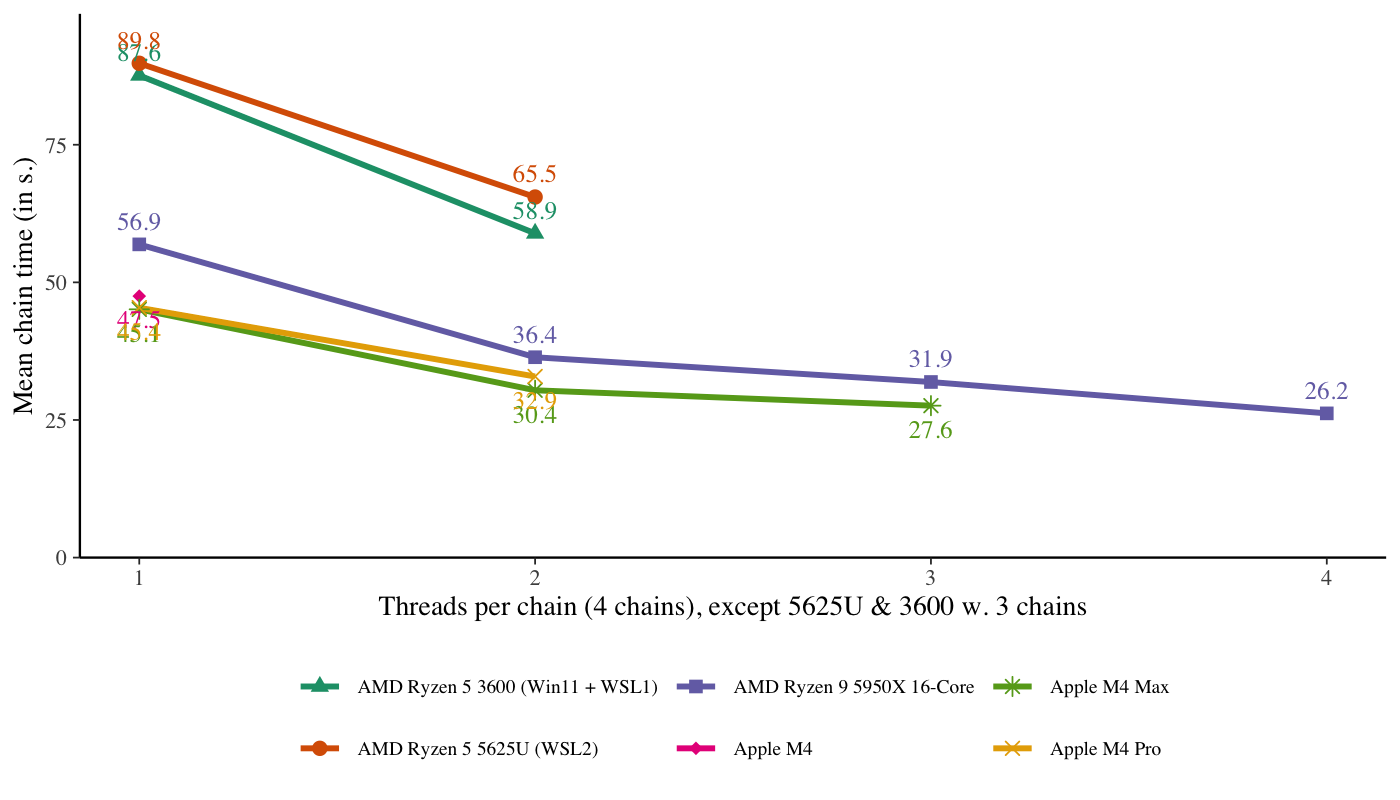
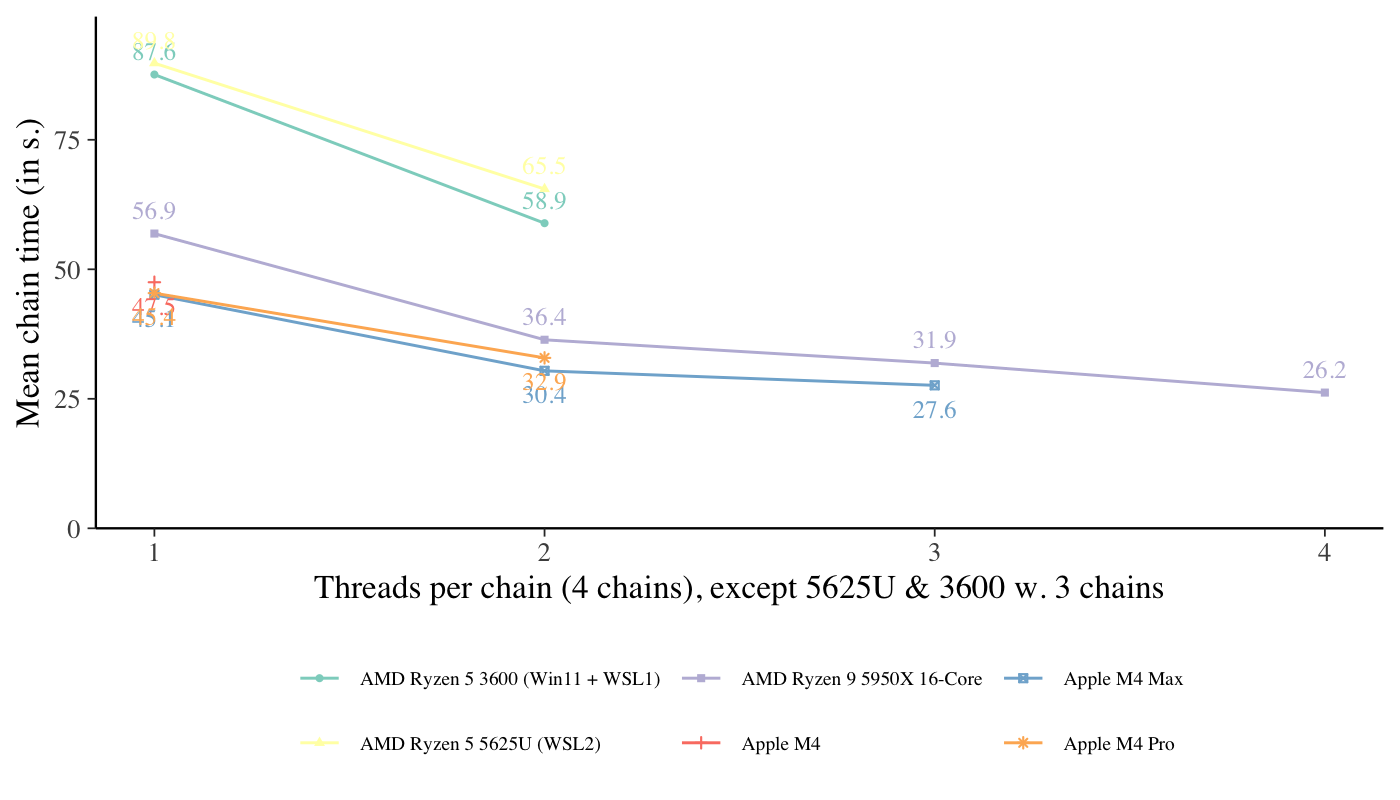
Small edits to the RMD

diff --git a/README.md b/README.md
@@ -4,16 +4,16 @@
 # `brms` CPU benchmark
 
 This repo contains a small, reproducible benchmark for how fast a modern
-computer samples a typical psychology model with **brms / CmdStan**,
-with wall time as a user experiences it, with and without within-chain
-threading, though the times obtained with threading are of interest.
+computer samples a typical model with **brms / CmdStan**, with wall time
+as a user experiences it, with and without within-chain threading,
+though the times obtained with threading are of interest.
 
 I do not recommend running it under “pure” Windows. For example, in this
-dataset, the 5625U from AMD reported timings of 286s for 4 chains X 1
-thread and the same laptop under WSL2 and under the same settings,
+dataset, the 5625U from AMD reported timings of 286s for 4 chains and 1
+thread. The same laptop under WSL2 and with the same settings registered
 89.8s. So the biggest available free lunch for a Windows user in terms
-of speeding up is using the WSL. I have observed this a lot and there
-are enough [threads on the
+of speeding up is using the WSL 1 or 2. I have observed this quite a lot
+and there are enough [threads on the
 interwebs](https://discourse.mc-stan.org/t/large-cmdstan-performance-differences-windows-vs-linux/14415/30)
 with concurring evidence. I am not sure if the reason for this issue was
 ever clarified but alas, here we are.
@@ -21,28 +21,31 @@ ever clarified but alas, here we are.
 ## How to run it
 
 Copy/paste into the console, but beware of your own specs before setting
-the treads argument.
+the treads argument. This is because some CPUs have a non bayesian
+friendly configuration in terms of cores. As running 4 chains is
+considered the norm, a 6 or 12 core CPU will have a harder time
+benefiting from the treading argument using 4 chains.
 
 ``` r
 source("https://raw.githubusercontent.com/GGLuca/brms-cpu-benchmark/refs/heads/master/benchmark.R")
 run_benchmark(threads = 1:2, reps = 2)   # keep 4 x threads <= your fast physical cores
 ```
 
-Needs R, `brms`, `cmdstanr` and a working CmdStan
-(`cmdstanr::install_cmdstan()`). Each run appends one row to
-`results.csv` in your working directory and prints it. The first run of
-each thread setting includes compilation (visible in `overhead`). The
-second is the clean one and will most likely give the lowest timing.
-Laptops should be plugged in if on Win, and on Linux, set the CPU
-governor to *performance*.
+The benchmark needs R, `brms`, `cmdstanr` and a working CmdStan
+(`cmdstanr::install_cmdstan()`). Each run appends or creates (depending
+if you are cloning or not) one row to `results.csv` in your working
+directory and prints it. The first run of each thread setting includes
+compilation (visible in `overhead`). The second run is the clean one and
+will most likely give the lowest timing. Laptops should be plugged in if
+on Win, and on Linux, set the CPU governor to *performance*.
 
 ## Report it
 
 If you wish, paste your rows as a [GitHub
 issue](https://github.com/GGLuca/brms-cpu-benchmark/issues) and also
-please make sure that the laptop was plugged in and if the power mode
-was on (if on Win). If you are on Linux, which governor was active. Rows
-are merged into `results.csv` by me as soon as I get the chance.
+please make a note wether the laptop was plugged in and if the power
+mode was on (if on Win). Rows will be merged into `results.csv` by me as
+soon as I get the chance.
 
 ## The benchmark
 
@@ -85,6 +88,11 @@ brm(
   cores (P-cores on Apple Silicon; real cores, not SMT threads, on x86).
   The function will warn you when you exceed it.
 
+- The `chains` argument sets the number of MCMC chains used to explore
+  the posterior.
+
+- The `cores` argument sets the number of cores used in the benchmark.
+
 - The `reps` argument sets how many times each thread setting is run
   (default at 1). With `reps = 2` you get a replicate row for every
   setting, which shows how much run-to-run variation there is, and the
@@ -93,7 +101,7 @@ brm(
 - The `machine` argument is the label written to the `machine` column.
   If you leave it out the function reads the CPU name from the operating
   system. I think it is desirable like this. Pass a string
-  (e.g. `"M4Pro 8P"`) to override it, if you wish so.
+  (e.g. `"M4Pro 8P"`) to override it if you wish to do so.
 
 ## What the columns mean in the results.csv
 
@@ -107,9 +115,10 @@ brm(
 
 ## Results
 
-Mean chain time (`mean_chain`) in seconds, with the lowest timed runs
-shown (which is the cached run). In parentheses is the speed-up relative
-to `threads = 1`, i.e., 3 or 4 cores full with one chain.
+Here are the mean chain time (`mean_chain`) in seconds, with the lowest
+timed runs shown (which is the cached run) from the database. In
+parentheses is the speed-up relative to `threads = 1`, i.e., 3 or 4
+cores full with one chain.
 
 | machine | 1 thread | 2 threads | 3 threads | 4 threads |
 |:---|---:|---:|---:|---:|
@@ -129,7 +138,7 @@ And here are the timings again, in a figure.
 - `run_benchmark.R`. the function; `source()` it and call
   `run_benchmark()`
 - `benchmark.csv`. the data
-- `results.csv`. all rows so far
+- `results.csv`. all rows so far.
 
 ## References
 
